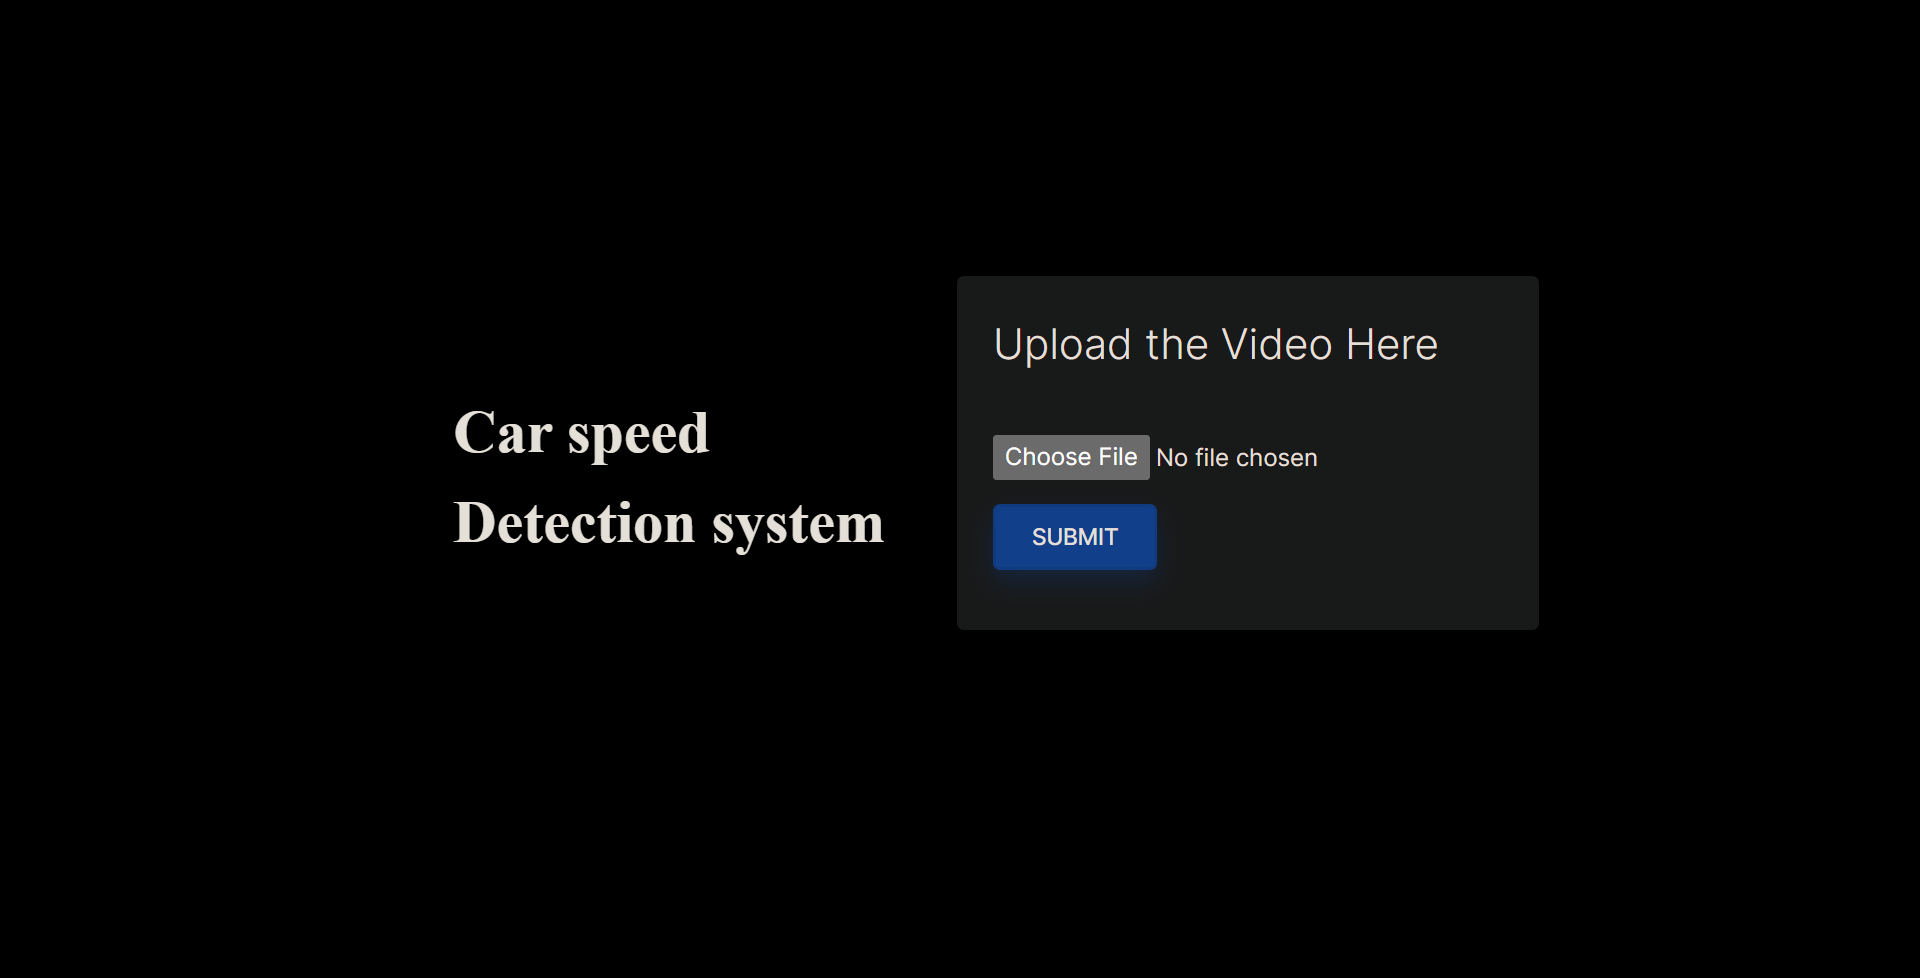
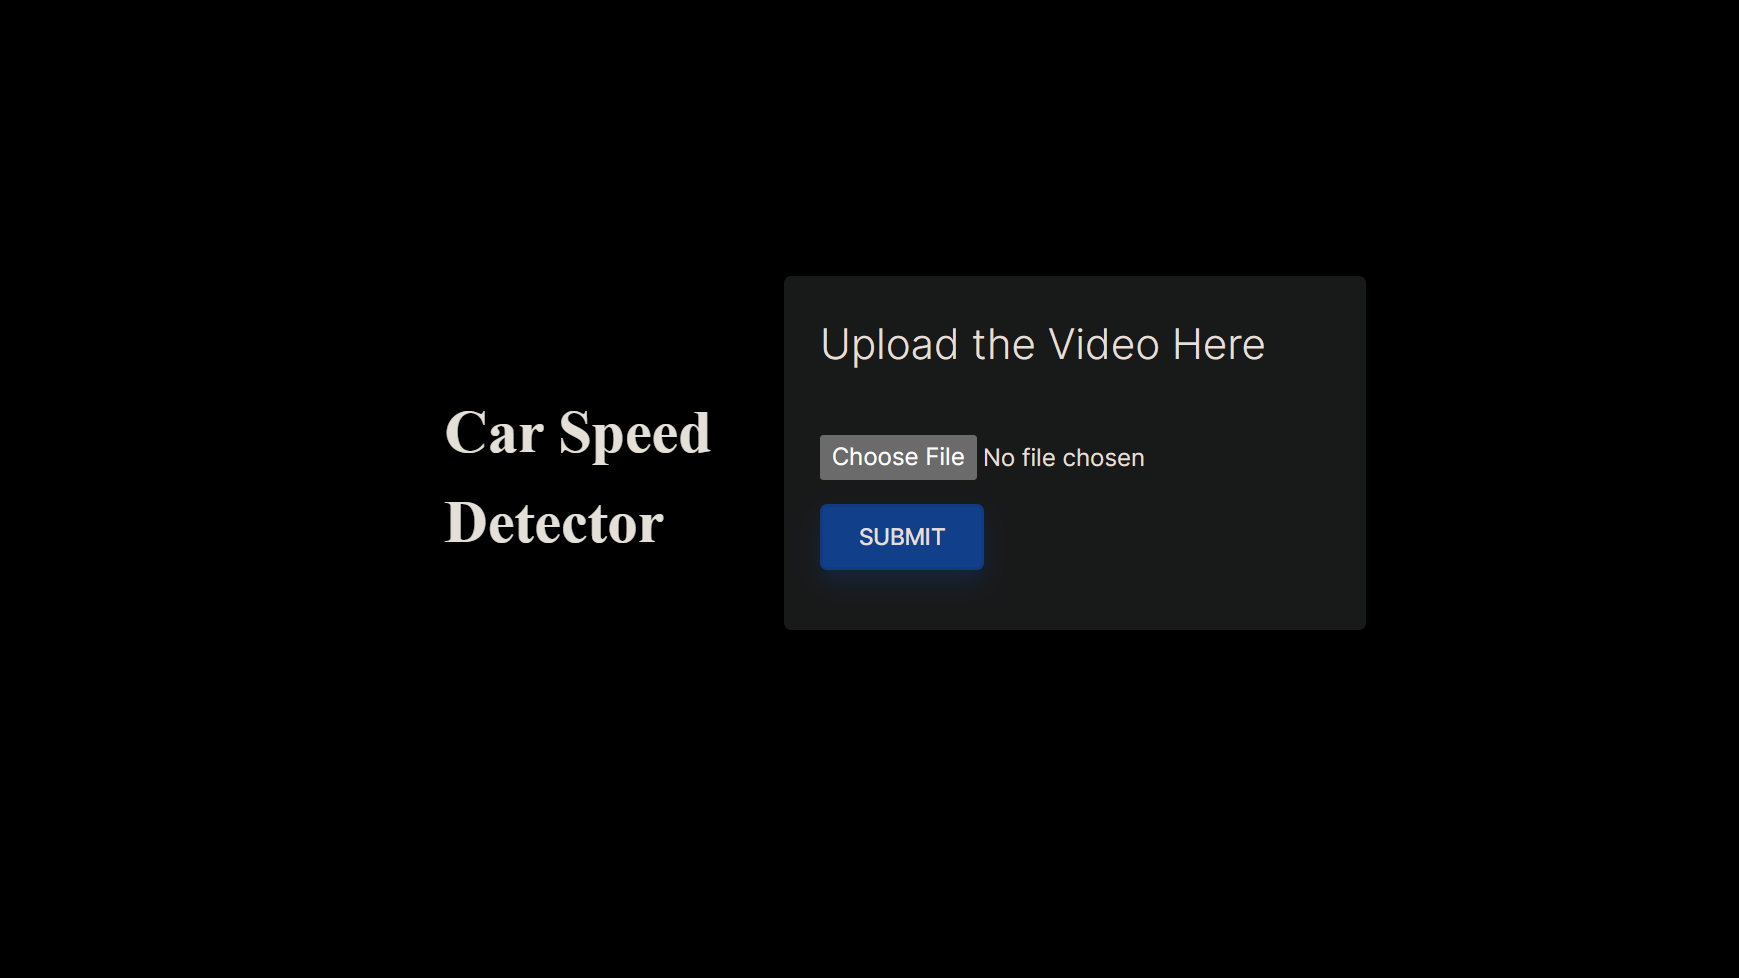
up

Changed region(s): [[0.2174, 0.2761, 0.7453, 0.6442], [0.7763, 0.2761, 0.8074, 0.6442]]

diff --git a/templates/video_upload.html b/templates/video_upload.html
@@ -19,8 +19,8 @@
 
 
 <body class="d-flex justify-content-center align-items-center vh-100">
-	<h2 class="p-5 fs-1" style="font-family: serif">Car speed <br>
-		Detection system</h2>
+	<h2 class="p-5 fs-1" style="font-family: serif">Car Speed <br>
+		Detector</h2>
 	<br>
 	<p>
 		{% with messages = get_flashed_messages() %}

diff --git a/README.md b/README.md
@@ -2,6 +2,8 @@
 
 A Simple Data Science based project that detects the speed of the Car using OpenCV and Flask (Interaction between frontend and backend)
 
+![home](static/home.png)
+
 ![car_speed_detection.gif](static/car_speed_detection.gif)
 
 ### Dependencies
